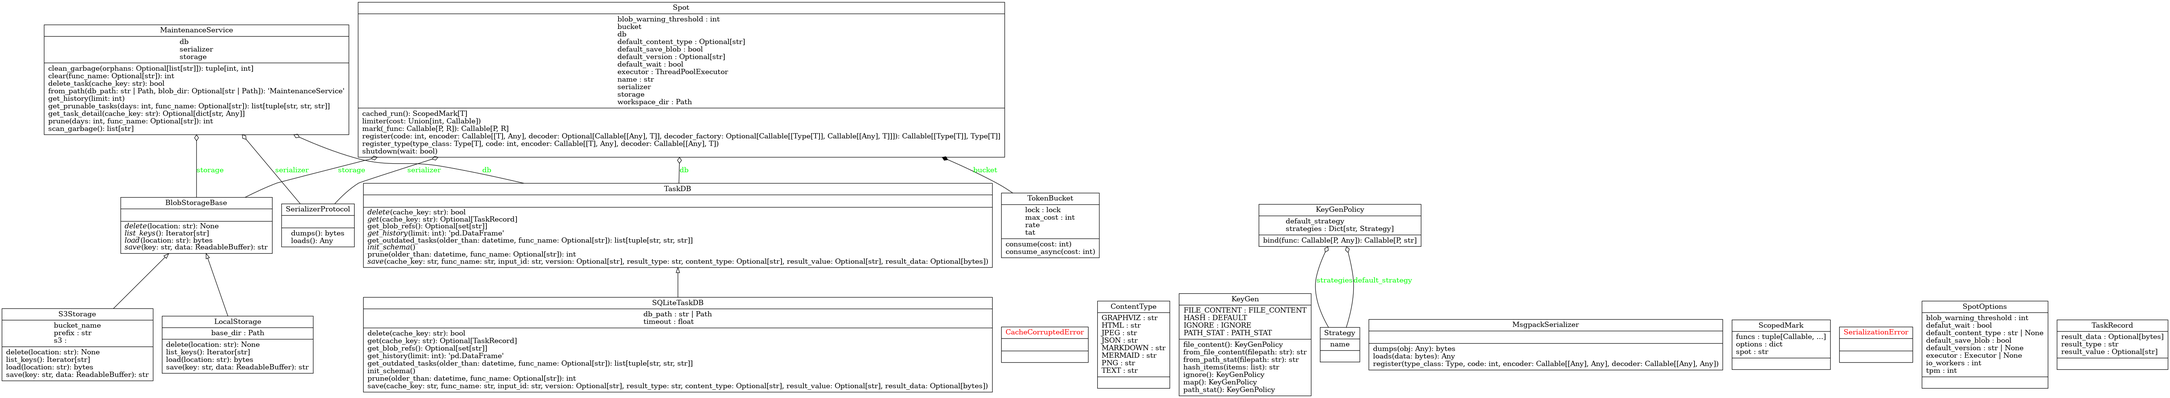
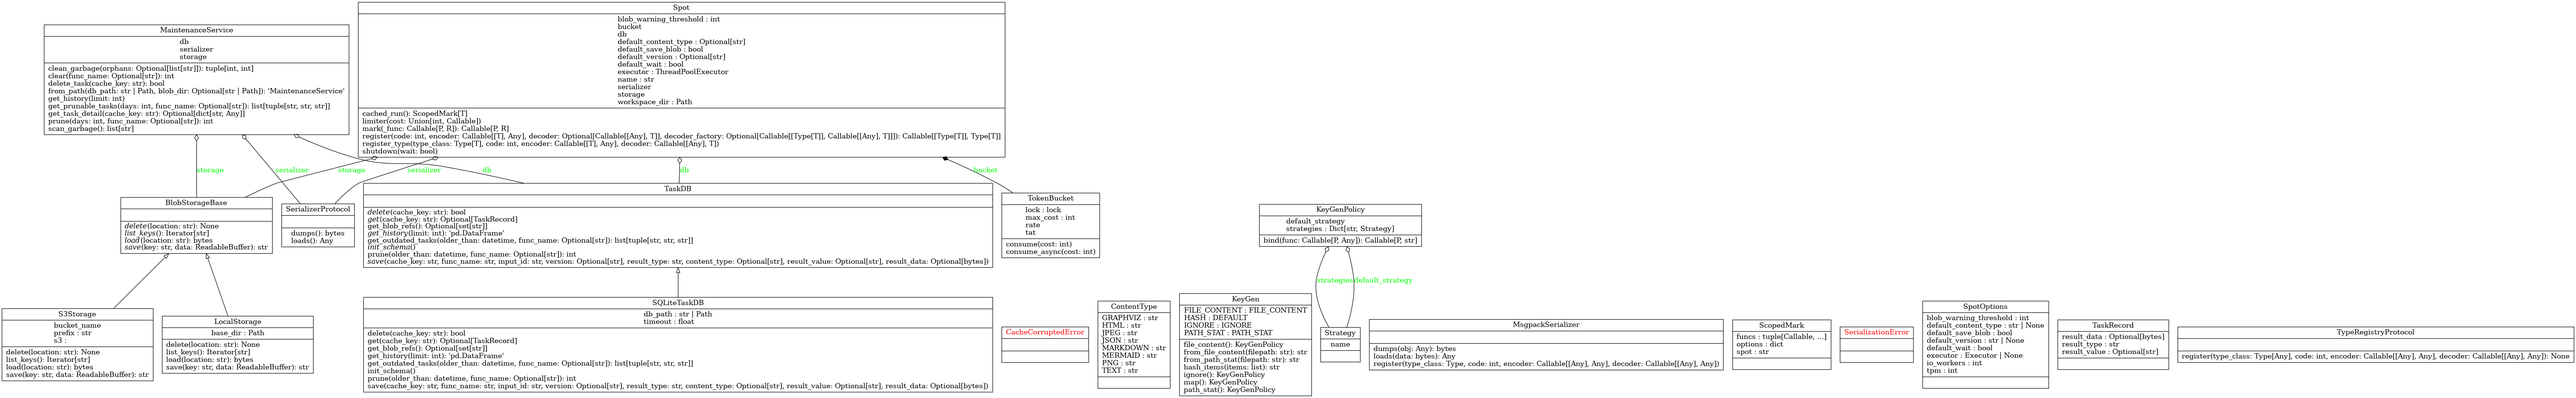
refact

diff --git a/docs/quality_report.md b/docs/quality_report.md
@@ -1,5 +1,5 @@
 # 📊 Beautyspot Quality Report
-**最終更新:** 2026-02-17 02:40:57
+**最終更新:** 2026-02-17 04:11:28
 
 ## 1. アーキテクチャ可視化
 ### 1.1 依存関係図 (Pydeps)
@@ -22,10 +22,10 @@ cli             | 0   | 1   | 1.00
 content_types   | 1   | 0   | 0.00
 dashboard       | 0   | 2   | 1.00
 maintenance     | 2   | 3   | 0.60
-storage         | 2   | 0   | 0.00
-core            | 0   | 5   | 1.00
 db              | 2   | 0   | 0.00
 serializer      | 2   | 0   | 0.00
+core            | 0   | 5   | 1.00
+storage         | 2   | 0   | 0.00
 
 Graph generated at: docs/statics/img/generated/architecture_metrics.png
 ```
@@ -58,8 +58,6 @@ src/beautyspot/limiter.py
     M 20:4 TokenBucket.__init__ - A
     M 66:4 TokenBucket.consume - A
     M 84:4 TokenBucket.consume_async - A
-src/beautyspot/__init__.py
-    F 24:0 Spot - A
 src/beautyspot/cachekey.py
     F 27:0 canonicalize - C
     F 92:0 _ - B
@@ -116,58 +114,6 @@ src/beautyspot/maintenance.py
     M 123:4 MaintenanceService.get_prunable_tasks - A
     M 127:4 MaintenanceService.prune - A
     M 134:4 MaintenanceService.clear - A
-src/beautyspot/storage.py
-    M 69:4 LocalStorage._validate_key - A
-    M 120:4 S3Storage.__init__ - A
-    C 64:0 LocalStorage - A
-    M 88:4 LocalStorage.load - A
-    M 110:4 LocalStorage.list_keys - A
-    C 119:0 S3Storage - A
-    M 156:4 S3Storage.list_keys - A
-    F 164:0 create_storage - A
-    C 26:0 BlobStorageBase - A
-    M 104:4 LocalStorage.delete - A
-    M 141:4 S3Storage.load - A
-    M 149:4 S3Storage.delete - A
-    C 20:0 CacheCorruptedError - A
-    M 32:4 BlobStorageBase.save - A
-    M 40:4 BlobStorageBase.load - A
-    M 47:4 BlobStorageBase.delete - A
-    M 55:4 BlobStorageBase.list_keys - A
-    M 65:4 LocalStorage.__init__ - A
-    M 76:4 LocalStorage.save - A
-    M 135:4 S3Storage.save - A
-src/beautyspot/core.py
-    M 397:4 Spot._check_cache_sync - B
-    M 530:4 Spot.mark - B
-    M 219:4 Spot._resolve_key_fn - A
-    M 447:4 Spot._save_result_sync - A
-    M 286:4 Spot._resolve_settings - A
-    M 652:4 Spot.cached_run - A
-    C 47:0 ScopedMark - A
-    M 59:4 ScopedMark.__enter__ - A
-    C 120:0 Spot - A
-    M 187:4 Spot._setup_workspace - A
-    M 201:4 Spot.shutdown - A
-    M 246:4 Spot.register - A
-    M 296:4 Spot._make_cache_key - A
-    M 317:4 Spot._execute_sync - A
-    M 354:4 Spot._execute_async - A
-    M 433:4 Spot._save_result_safe - A
-    M 125:4 Spot.__init__ - A
-    M 208:4 Spot.__exit__ - A
-    M 269:4 Spot.register_type - A
-    M 53:4 ScopedMark.__init__ - A
-    M 101:4 ScopedMark.__exit__ - A
-    C 106:0 SpotOptions - A
-    M 182:4 Spot._track_future - A
-    M 198:4 Spot._shutdown_executor - A
-    M 205:4 Spot.__enter__ - A
-    M 494:4 Spot.limiter - A
-    M 515:4 Spot.mark - A
-    M 518:4 Spot.mark - A
-    M 627:4 Spot.cached_run - A
-    M 641:4 Spot.cached_run - A
 src/beautyspot/db.py
     M 108:4 SQLiteTaskDB.init_schema - A
     M 218:4 SQLiteTaskDB.get_outdated_tasks - A
@@ -191,20 +137,76 @@ src/beautyspot/db.py
     M 149:4 SQLiteTaskDB.save - A
     M 198:4 SQLiteTaskDB.delete - A
 src/beautyspot/serializer.py
-    M 69:4 MsgpackSerializer._default_packer - B
-    C 25:0 MsgpackSerializer - A
-    M 146:4 MsgpackSerializer.dumps - A
-    M 123:4 MsgpackSerializer._ext_hook - A
-    M 167:4 MsgpackSerializer.loads - A
-    C 7:0 SerializerProtocol - A
-    M 39:4 MsgpackSerializer.register - A
-    M 12:4 SerializerProtocol.dumps - A
-    M 15:4 SerializerProtocol.loads - A
-    C 19:0 SerializationError - A
-    M 33:4 MsgpackSerializer.__init__ - A
+    M 84:4 MsgpackSerializer._default_packer - B
+    C 40:0 MsgpackSerializer - A
+    M 161:4 MsgpackSerializer.dumps - A
+    M 138:4 MsgpackSerializer._ext_hook - A
+    M 182:4 MsgpackSerializer.loads - A
+    C 9:0 SerializerProtocol - A
+    C 21:0 TypeRegistryProtocol - A
+    M 54:4 MsgpackSerializer.register - A
+    M 14:4 SerializerProtocol.dumps - A
+    M 17:4 SerializerProtocol.loads - A
+    M 25:4 TypeRegistryProtocol.register - A
+    C 35:0 SerializationError - A
+    M 48:4 MsgpackSerializer.__init__ - A
+src/beautyspot/__init__.py
+    F 25:0 Spot - A
+src/beautyspot/core.py
+    M 416:4 Spot._check_cache_sync - B
+    M 225:4 Spot._resolve_key_fn - A
+    M 291:4 Spot._resolve_settings - A
+    M 466:4 Spot._save_result_sync - A
+    M 636:4 Spot.cached_run - A
+    C 48:0 ScopedMark - A
+    M 64:4 ScopedMark.__enter__ - A
+    C 126:0 Spot - A
+    M 193:4 Spot._setup_workspace - A
+    M 207:4 Spot.shutdown - A
+    M 252:4 Spot.register - A
+    M 308:4 Spot._make_cache_key - A
+    M 329:4 Spot._execute_sync - A
+    M 372:4 Spot._execute_async - A
+    M 452:4 Spot._save_result_safe - A
+    M 549:4 Spot.mark - A
+    M 106:4 ScopedMark.__exit__ - A
+    M 131:4 Spot.__init__ - A
+    M 214:4 Spot.__exit__ - A
+    M 275:4 Spot.register_type - A
+    M 55:4 ScopedMark.__init__ - A
+    C 112:0 SpotOptions - A
+    M 188:4 Spot._track_future - A
+    M 204:4 Spot._shutdown_executor - A
+    M 211:4 Spot.__enter__ - A
+    M 513:4 Spot.limiter - A
+    M 534:4 Spot.mark - A
+    M 537:4 Spot.mark - A
+    M 611:4 Spot.cached_run - A
+    M 625:4 Spot.cached_run - A
+src/beautyspot/storage.py
+    M 70:4 LocalStorage._validate_key - A
+    M 133:4 S3Storage.__init__ - A
+    C 64:0 LocalStorage - A
+    M 93:4 LocalStorage.load - A
+    M 111:4 LocalStorage.delete - A
+    M 123:4 LocalStorage.list_keys - A
+    C 132:0 S3Storage - A
+    M 169:4 S3Storage.list_keys - A
+    F 177:0 create_storage - A
+    C 26:0 BlobStorageBase - A
+    M 154:4 S3Storage.load - A
+    M 162:4 S3Storage.delete - A
+    C 20:0 CacheCorruptedError - A
+    M 32:4 BlobStorageBase.save - A
+    M 40:4 BlobStorageBase.load - A
+    M 47:4 BlobStorageBase.delete - A
+    M 55:4 BlobStorageBase.list_keys - A
+    M 65:4 LocalStorage.__init__ - A
+    M 77:4 LocalStorage.save - A
+    M 148:4 S3Storage.save - A
 
-139 blocks (classes, functions, methods) analyzed.
-Average complexity: A (2.762589928057554)
+141 blocks (classes, functions, methods) analyzed.
+Average complexity: A (2.7375886524822697)
 ```
 </details>
 
@@ -222,16 +224,16 @@ Average complexity: A (2.762589928057554)
 ```text
 src/beautyspot/_version.py - A
 src/beautyspot/limiter.py - A
-src/beautyspot/__init__.py - A
 src/beautyspot/cachekey.py - A
 src/beautyspot/cli.py - A
 src/beautyspot/content_types.py - A
 src/beautyspot/dashboard.py - A
 src/beautyspot/maintenance.py - A
-src/beautyspot/storage.py - A
-src/beautyspot/core.py - A
 src/beautyspot/db.py - A
 src/beautyspot/serializer.py - A
+src/beautyspot/__init__.py - A
+src/beautyspot/core.py - A
+src/beautyspot/storage.py - A
 ```
 </details>
 
@@ -242,6 +244,7 @@ src/beautyspot/serializer.py - A
 graph LR
     classDef protocol fill:#f9f,stroke:#333,stroke-width:2px;
     class SerializerProtocol protocol;
+    class TypeRegistryProtocol protocol;
     KeyGen -- "creates" --> KeyGenPolicy
     KeyGen -- "creates" --> ValueError
     KeyGenPolicy -. "uses" .-> KeyGen.from_file_content
@@ -255,11 +258,13 @@ graph LR
     MaintenanceService -- "creates" --> SQLiteTaskDB
     MsgpackSerializer -- "creates" --> SerializationError
     MsgpackSerializer -. "implements" .-> SerializerProtocol
+    MsgpackSerializer -. "implements" .-> TypeRegistryProtocol
     MsgpackSerializer -- "creates" --> ValueError
     S3Storage -- "creates" --> FileNotFoundError
     S3Storage -- "creates" --> ImportError
     SQLiteTaskDB -- "creates" --> ImportError
     SQLiteTaskDB -- "creates" --> Path
+    ScopedMark -- "creates" --> ContextVar
     ScopedMark -- "creates" --> RuntimeError
     Spot -. "uses" .-> KeyGen._default
     Spot -- "creates" --> NotImplementedError
@@ -268,6 +273,7 @@ graph LR
     Spot -- "creates" --> ThreadPoolExecutor
     Spot -- "creates" --> TokenBucket
     Spot -- "creates" --> TypeError
+    Spot -. "implements" .-> TypeRegistryProtocol
     Spot -- "creates" --> ValueError
     TokenBucket -- "creates" --> ValueError
 ```
